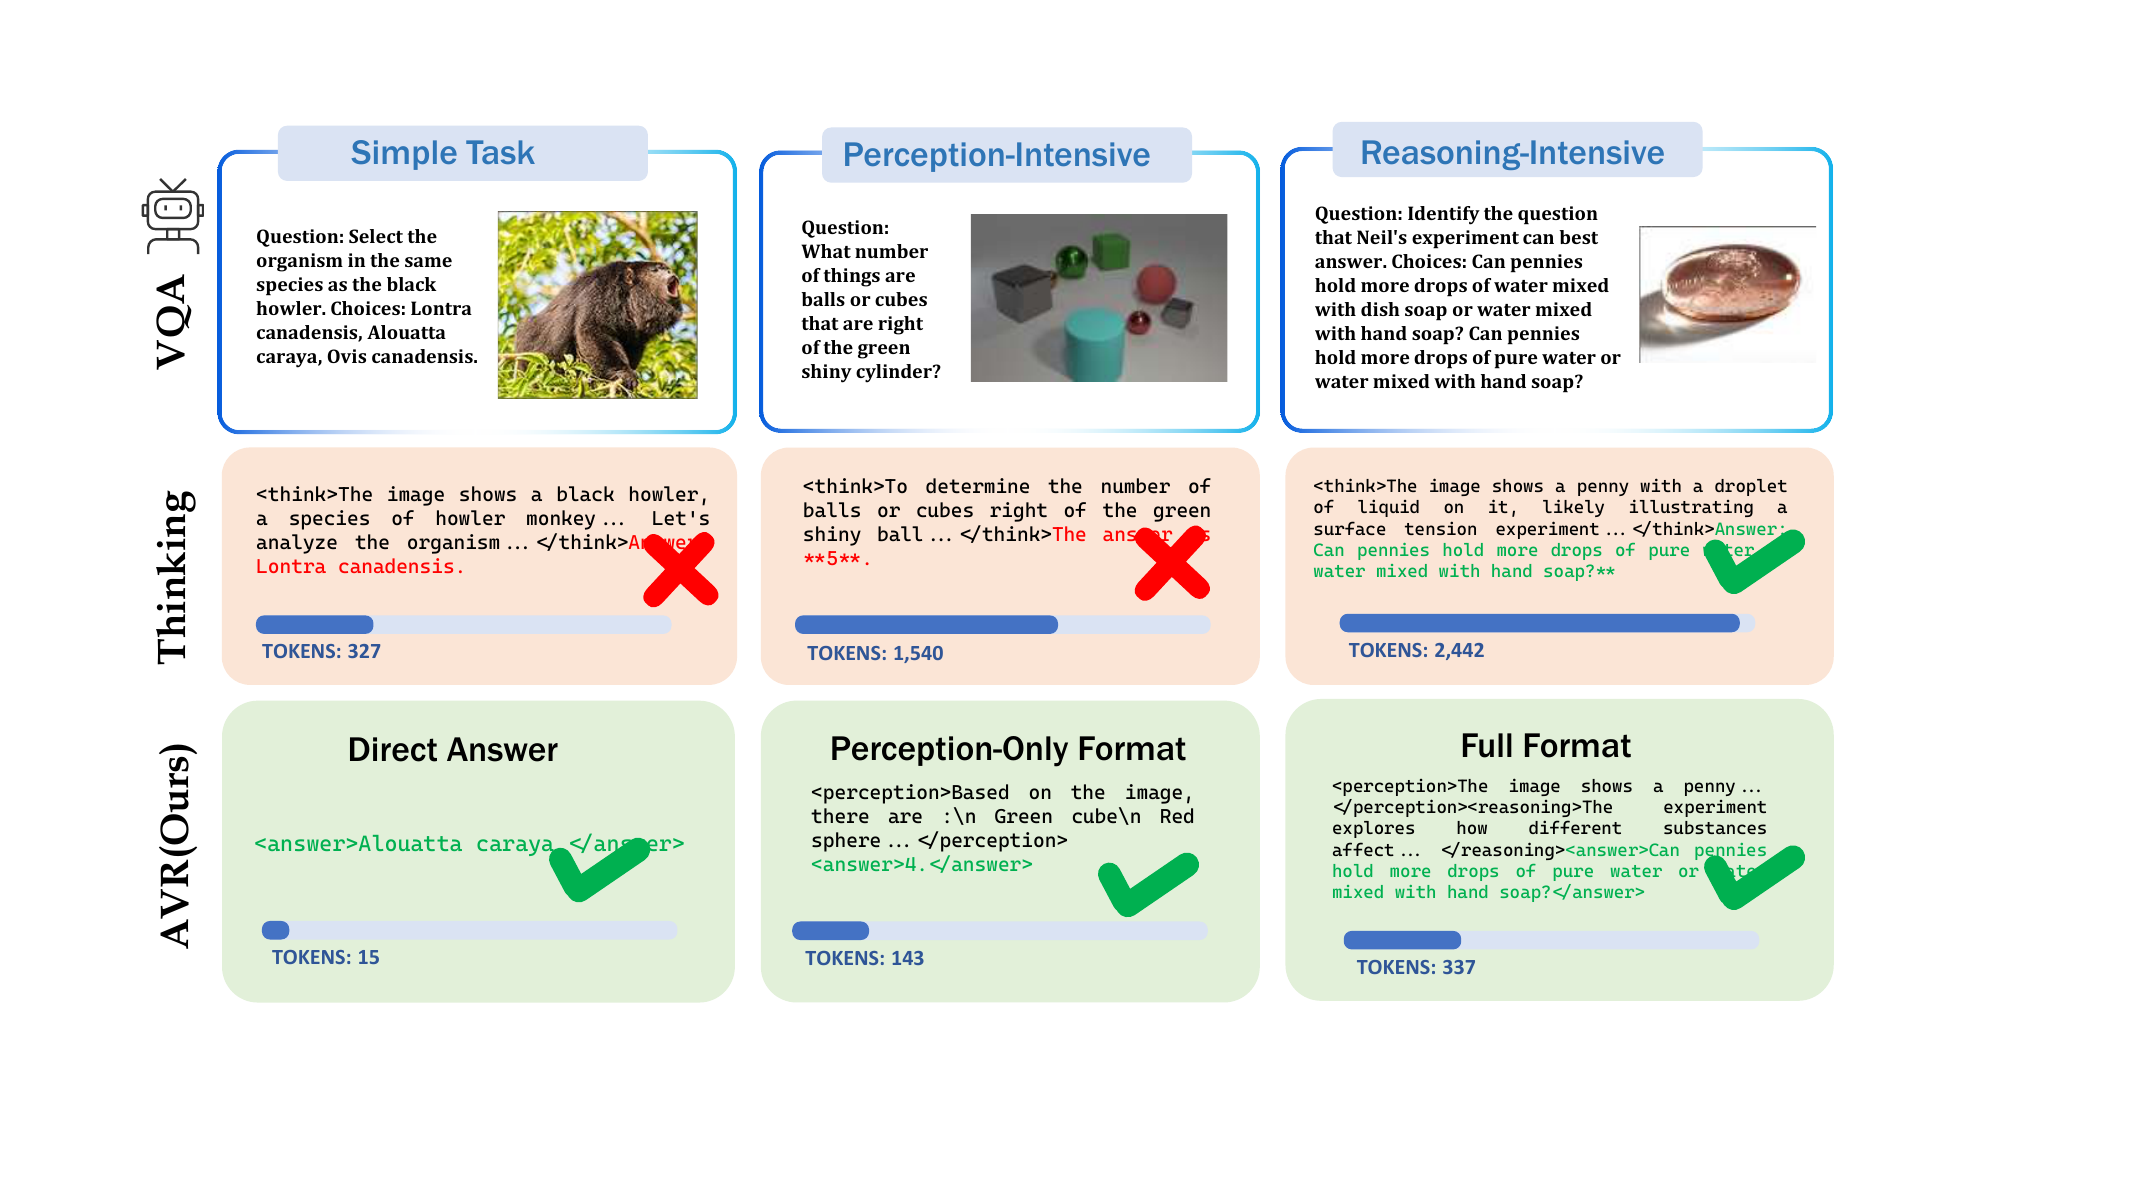
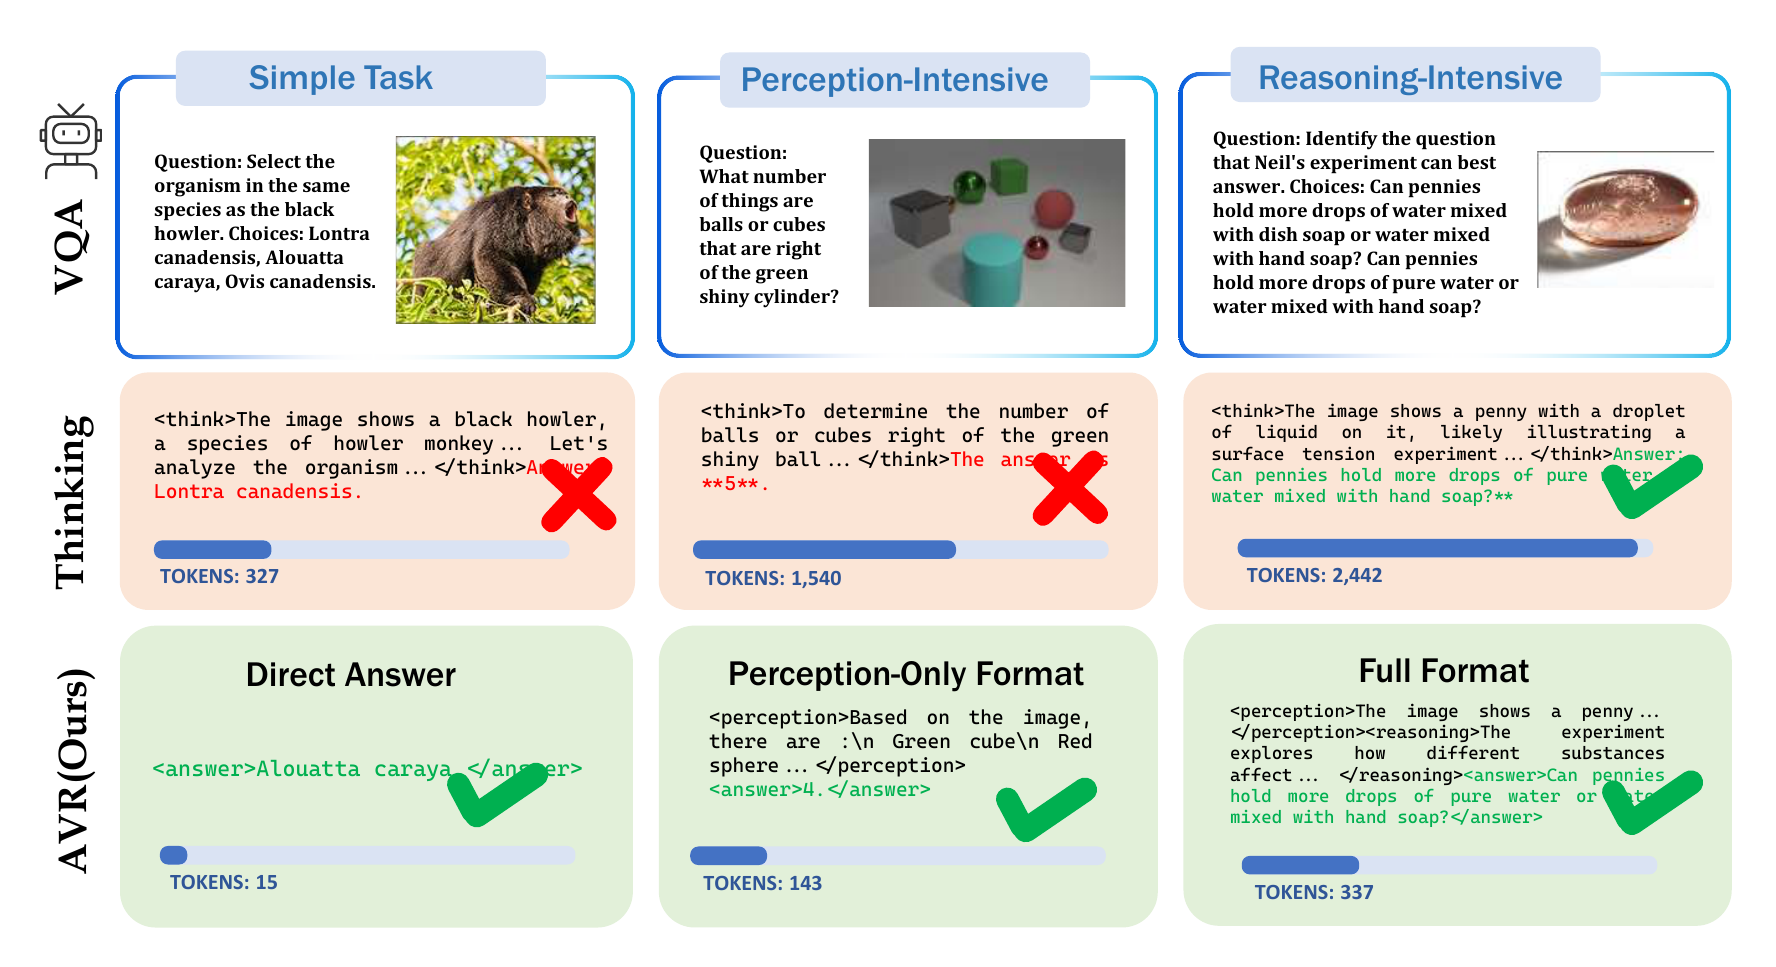
Update research experience and scholar link

diff --git a/src/sections/Research.tsx b/src/sections/Research.tsx
@@ -24,12 +24,19 @@ const researchData = [
     tags: ['Vision-Language Models', 'Visual Reasoning', 'Reinforcement Learning', 'Efficiency'],
   },
   {
-    title: 'RA@ACE: Self-Evolving LLM Coding Framework via Adversarial Unit Test Generation and Preference Optimization',
+    title: 'ACE: Self-Evolving LLM Coding Framework via Adversarial Unit Test Generation and Preference Optimization',
     institution: 'Fudan University',
     advisor: 'Prof. Zhongyu Wei',
+    advisorUrl: 'http://www.fudan-disc.com/people/zywei',
     location: 'Shanghai, China',
-    period: 'Jan 2026 – Mar 2026',
-    description: 'Identified feedback saturation in solver–verifier self-improvement for code generation, where verifier-generated tests lose discriminative power as solvers improve. Proposed ACE, a solver–adversary self-evolving framework that replaces output-based verification with execution-centric adversarial supervision, designing adversarial unit test generation without oracle outputs and constructing execution-derived preference signals to jointly optimize the solver via SFT and the adversary via KTO. Achieved consistent gains in pass@k accuracy, out-of-distribution generalization, and inference efficiency across multiple code generation benchmarks. In submission to ICLR 2026 RSI Workshop.',
+    period: 'Dec. 2025 - March. 2026',
+    status: 'ICLR 2026 Workshop RSI Spotlight (first author)',
+    role: 'Research Assistant at Fudan University',
+    bullets: [
+      'Identified feedback saturation in solver-verifier self-improvement for code generation, where verifier-generated tests lose discriminative power as solvers improve, failing to expose remaining execution-level failure modes.',
+      'Proposed ACE, a solver-adversary self-evolving framework that replaces output-based verification with execution-centric adversarial supervision. Designed adversarial unit test generation without oracle outputs or human annotation, and constructed execution-derived preference signals to jointly optimize the solver via SFT and the adversary via KTO in a stable multi-round loop.',
+      'Achieved consistent gains in pass@k accuracy, out-of-distribution generalization, and inference efficiency across multiple code generation benchmarks, outperforming strong solver-verifier baselines.',
+    ],
     tags: ['LLM', 'Code Generation', 'Preference Optimization', 'Self-Improvement'],
   },
   {
@@ -40,24 +47,6 @@ const researchData = [
     period: '2024 – Sept 2025',
     description: 'Worked on constructing a novel multi-modal benchmarking method through super-resolution technology using spatial omics data for diverse H&E foundation models.',
     tags: ['Spatial Omics', 'Super-Resolution', 'Benchmarking'],
-  },
-  {
-    title: 'AI-Powered Intestinal Polyp Diagnosis & Mobile Digital Ecosystem',
-    institution: 'Challenge Cup 2025',
-    advisor: 'Prof. Xiahai Zhuang and Prof. Zhiyuan Yuan',
-    location: 'Shanghai, China',
-    period: '2024 – Mar 2025',
-    description: 'Spearheaded the development of a YOLOv5-based diagnostic system using clinical data from Zhongshan Hospital; achieved real-time polyp detection and histological classification (benign vs. malignant) during colonoscopy procedures.',
-    tags: ['Computer Vision', 'Medical AI', 'YOLOv5'],
-  },
-  {
-    title: 'RA@AI-based Nb and Antigen Binding Site Prediction',
-    institution: 'Fudan University',
-    advisor: 'Prof. Yu Ding',
-    location: 'Shanghai, China',
-    period: '2023 – Sept 2024',
-    description: 'Investigated existing protein structure prediction models and studied the framework and application of MSA- and Transformer-based models.',
-    tags: ['Protein Structure', 'Transformers', 'Bioinformatics'],
   },
 ];
 

diff --git a/src/sections/Hero.tsx b/src/sections/Hero.tsx
@@ -1,6 +1,6 @@
 import { useEffect, useRef } from 'react';
 import { gsap } from 'gsap';
-import { Mail, Github, Twitter, Gamepad2 } from 'lucide-react';
+import { Mail, Github, Twitter, Gamepad2, GraduationCap } from 'lucide-react';
 
 export default function Hero() {
   const heroRef = useRef<HTMLDivElement>(null);
@@ -182,6 +182,15 @@ export default function Hero() {
               >
                 <Mail size={20} />
                 Email
+              </a>
+              <a
+                href="https://scholar.google.com/citations?user=ZBJHQB0AAAAJ&hl=en&oi=sra"
+                target="_blank"
+                rel="noopener noreferrer"
+                className="hero-btn btn-magnetic inline-flex items-center justify-center gap-2 px-6 py-3 bg-white rounded-xl border border-[#dee2e6] shadow-sm font-medium transition-all duration-300 hover:shadow-md hover:-translate-y-1 hover:bg-blue-50 hover:text-blue-700 hover:border-blue-200"
+              >
+                <GraduationCap size={20} />
+                Scholar
               </a>
               <a
                 href="https://github.com/RunRiotComeOn"

diff --git a/src/sections/Contact.tsx b/src/sections/Contact.tsx
@@ -2,7 +2,7 @@ import { useEffect, useRef, useState } from 'react';
 import type { FormEvent } from 'react';
 import { gsap } from 'gsap';
 import { ScrollTrigger } from 'gsap/ScrollTrigger';
-import { Mail, Github, Gamepad2, Twitter, Send, CheckCircle, AlertCircle } from 'lucide-react';
+import { Mail, Github, Gamepad2, Twitter, Send, CheckCircle, AlertCircle, GraduationCap } from 'lucide-react';
 import emailjs from '@emailjs/browser';
 
 gsap.registerPlugin(ScrollTrigger);
@@ -13,6 +13,12 @@ const socialLinks = [
     href: 'mailto:[email redacted]',
     icon: Mail,
     color: 'hover:bg-red-50 hover:text-red-600 hover:border-red-200',
+  },
+  {
+    name: 'Scholar',
+    href: 'https://scholar.google.com/citations?user=ZBJHQB0AAAAJ&hl=en&oi=sra',
+    icon: GraduationCap,
+    color: 'hover:bg-blue-50 hover:text-blue-700 hover:border-blue-200',
   },
   {
     name: 'GitHub',